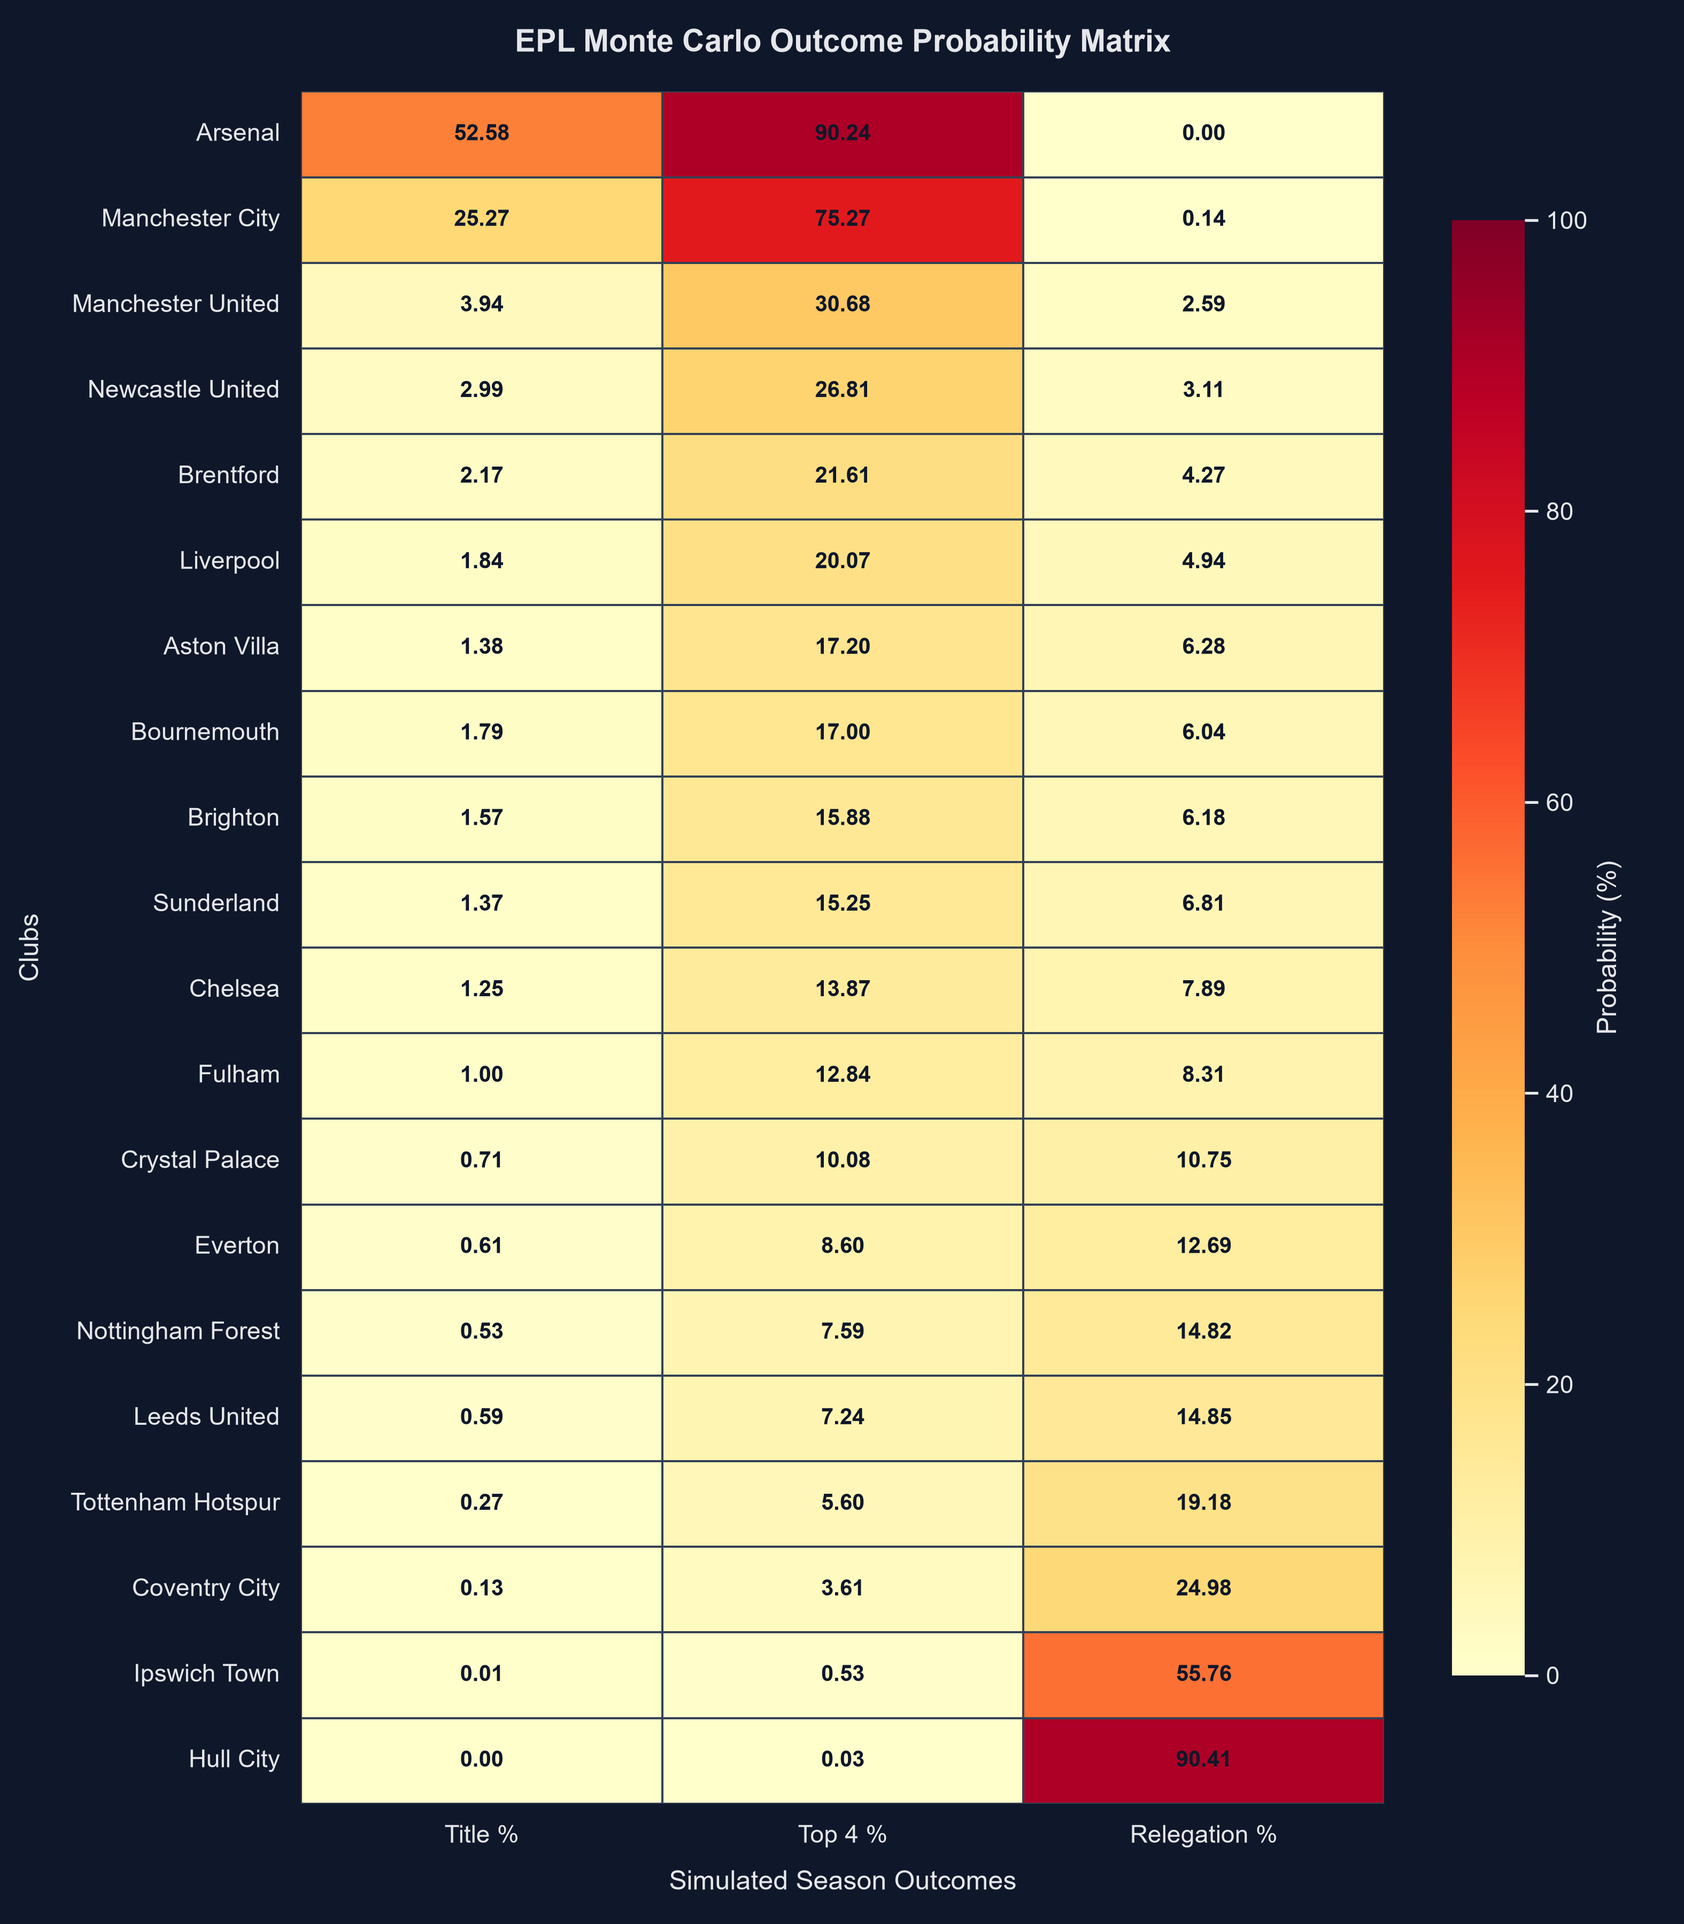
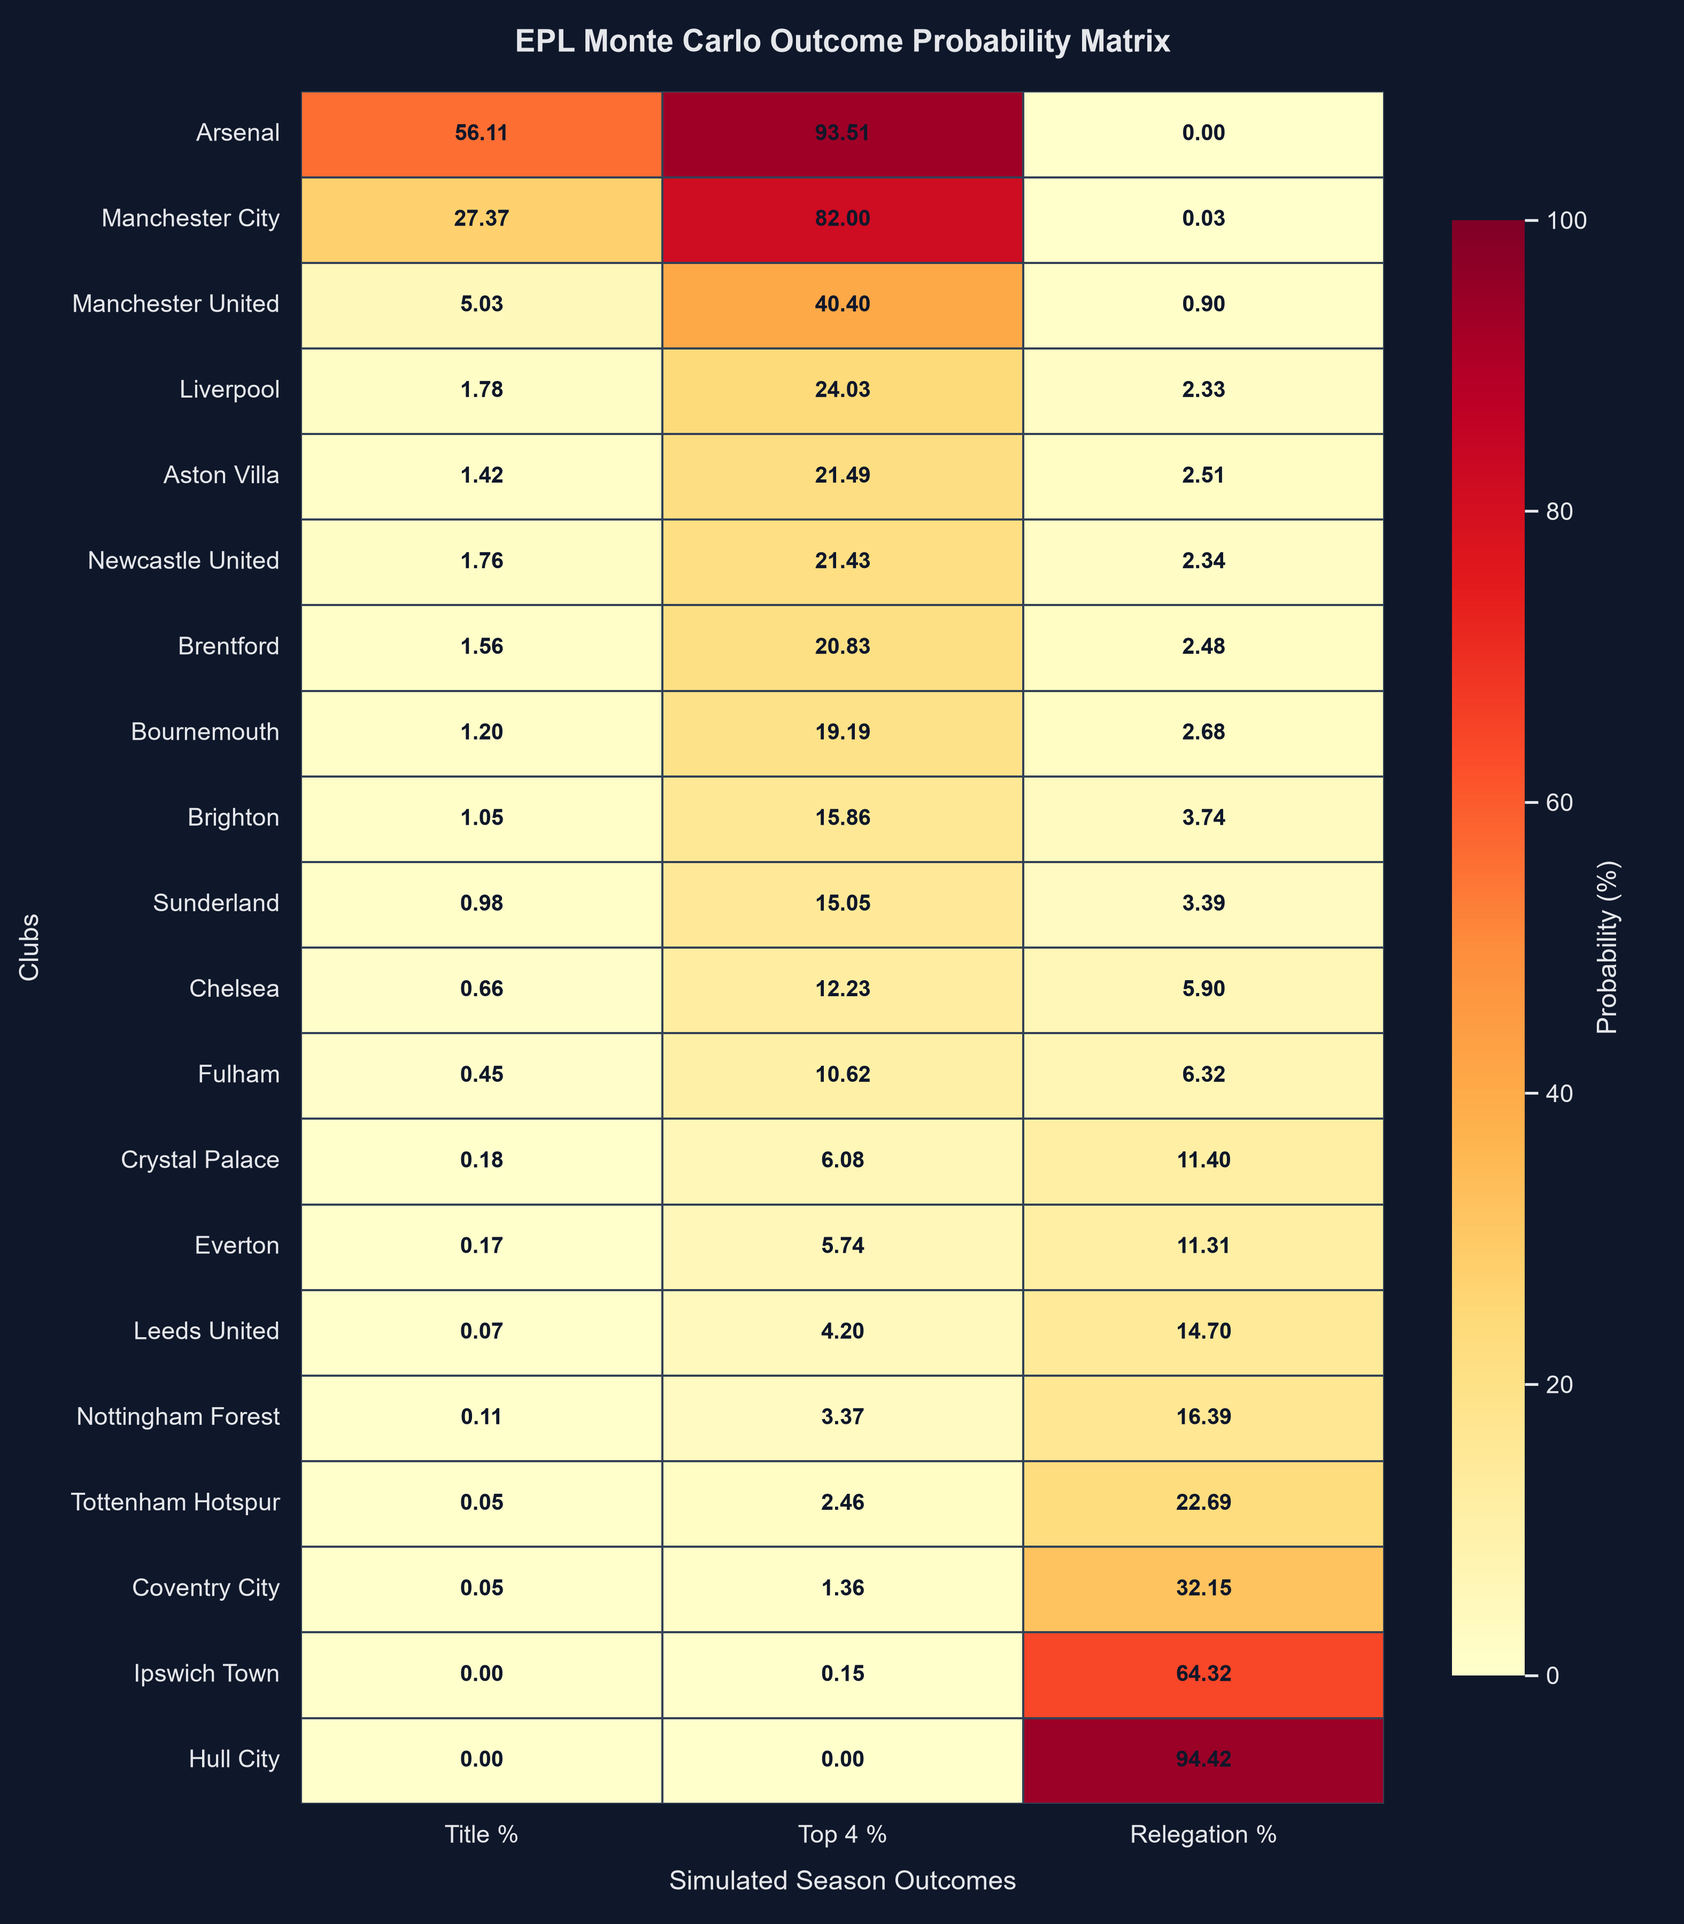
Document season-specific data structure

diff --git a/app.py b/app.py
@@ -1,4 +1,5 @@
 import json
+import sys
 from html import escape
 from pathlib import Path
 
@@ -6,7 +7,16 @@ import pandas as pd
 import plotly.graph_objects as go
 import streamlit as st
 
+SRC = Path(__file__).resolve().parent / "src"
+if str(SRC) not in sys.path:
+    sys.path.insert(0, str(SRC))
+
+from epl_sim.models import TeamRating
+from epl_sim.simulator import round_robin_fixtures
+from fdi_engine import calculate_fixture_difficulty
+from pipeline_initializer import initialize_pre_season_standings
 from scripts.generate_visuals import build_heatmap
+from src.ticker_matrix import generate_html_full_38_ticker
 
 # ==========================================
 # 1. PAGE CONFIGURATION & DARK THEME HOOK
@@ -64,69 +74,67 @@ HEATMAP_PATH = ROOT / "output_plots" / "epl_probability_heatmap.png"
 
 
 def render_dashboard_table(df: pd.DataFrame, column_config: dict) -> None:
-    """Render a native table, with an HTML fallback when PyArrow is blocked."""
-    try:
-        st.dataframe(
-            df,
-            column_config=column_config,
-            use_container_width=True,
-            hide_index=True,
-            height=800,
-        )
-    except (ImportError, OSError) as error:
-        error_text = str(error).lower()
-        if "pyarrow" not in error_text and "dll" not in error_text:
-            raise
+    """Render a dashboard table as HTML without loading Streamlit's native table stack."""
+    bar_colors = {
+        "Title_Pct": "#58a6ff",
+        "Relegation_Pct": "#ff7b72",
+        "FDI_Remaining": "#ff7b72",
+        "Risk %": "#ff4d4d",
+    }
+    header_labels = {
+        "Team": "Club Name",
+        "xPts": "xPts",
+        "Title_Pct": "Title Probability",
+        "Relegation_Pct": "Relegation Risk",
+        "FDI_Remaining": "FDI Score",
+        "FDI_Tier": "Schedule Status",
+        "Risk %": "Risk %",
+    }
+    headers = "".join(
+        f"<th>{escape(header_labels.get(column, str(column)))}</th>"
+        for column in df.columns
+    )
+    rows = []
+    for _, row in df.iterrows():
+        cells = []
+        for column, value in row.items():
+            if column == "FDI_Remaining":
+                score = max(1.0, min(5.0, float(value)))
+                percentage = ((score - 1.0) / 4.0) * 100.0
+                cells.append(
+                    "<td><div class='metric-cell'>"
+                    f"<span>{score:.2f}</span>"
+                    f"<span class='metric-bar'><span style='width:{percentage:.1f}%;background:{bar_colors[column]};'></span></span>"
+                    "</div></td>"
+                )
+            elif column in bar_colors:
+                percentage = max(0.0, min(100.0, float(value)))
+                cells.append(
+                    "<td><div class='metric-cell'>"
+                    f"<span>{percentage:.1f}%</span>"
+                    f"<span class='metric-bar'><span style='width:{percentage:.1f}%;background:{bar_colors[column]};'></span></span>"
+                    "</div></td>"
+                )
+            elif column == "xPts":
+                cells.append(f"<td>{float(value):.2f}</td>")
+            else:
+                cells.append(f"<td>{escape(str(value))}</td>")
+        rows.append(f"<tr>{''.join(cells)}</tr>")
 
-        st.caption("Native Streamlit tables are unavailable because Windows blocked PyArrow; showing a compatible table.")
-        bar_colors = {
-            "Title_Pct": "#58a6ff",
-            "Relegation_Pct": "#ff7b72",
-            "Risk %": "#ff4d4d",
-        }
-        header_labels = {
-            "Team": "Club Name",
-            "xPts": "xPts",
-            "Title_Pct": "Title Probability",
-            "Relegation_Pct": "Relegation Risk",
-            "Risk %": "Risk %",
-        }
-        headers = "".join(
-            f"<th>{escape(header_labels.get(column, str(column)))}</th>"
-            for column in df.columns
-        )
-        rows = []
-        for _, row in df.iterrows():
-            cells = []
-            for column, value in row.items():
-                if column in bar_colors:
-                    percentage = max(0.0, min(100.0, float(value)))
-                    cells.append(
-                        "<td><div class='metric-cell'>"
-                        f"<span>{percentage:.1f}%</span>"
-                        f"<span class='metric-bar'><span style='width:{percentage:.1f}%;background:{bar_colors[column]};'></span></span>"
-                        "</div></td>"
-                    )
-                elif column == "xPts":
-                    cells.append(f"<td>{float(value):.2f}</td>")
-                else:
-                    cells.append(f"<td>{escape(str(value))}</td>")
-            rows.append(f"<tr>{''.join(cells)}</tr>")
-
-        table_html = (
-            "<style>"
-            ".dashboard-table-wrap{width:100%;max-width:100%;max-height:800px;overflow:auto;}"
-            ".dashboard-table{width:100%;min-width:560px;border-collapse:collapse;color:#c9d1d9;}"
-            ".dashboard-table th,.dashboard-table td{padding:8px 10px;text-align:left;border-bottom:1px solid #30363d;}"
-            ".dashboard-table th{color:#8b949e;font-weight:600;}"
-            ".metric-cell{display:flex;align-items:center;gap:8px;min-width:110px;}"
-            ".metric-bar{display:inline-block;width:64px;height:6px;background:#30363d;border-radius:4px;overflow:hidden;}"
-            ".metric-bar span{display:block;height:100%;border-radius:4px;}"
-            "</style>"
-            f"<div class='dashboard-table-wrap'><table class='dashboard-table'><thead><tr>{headers}</tr></thead>"
-            f"<tbody>{''.join(rows)}</tbody></table></div>"
-        )
-        st.markdown(table_html, unsafe_allow_html=True)
+    table_html = (
+        "<style>"
+        ".dashboard-table-wrap{width:100%;max-width:100%;max-height:800px;overflow:auto;}"
+        ".dashboard-table{width:100%;min-width:560px;border-collapse:collapse;color:#c9d1d9;}"
+        ".dashboard-table th,.dashboard-table td{padding:8px 10px;text-align:left;border-bottom:1px solid #30363d;}"
+        ".dashboard-table th{color:#8b949e;font-weight:600;}"
+        ".metric-cell{display:flex;align-items:center;gap:8px;min-width:110px;}"
+        ".metric-bar{display:inline-block;width:64px;height:6px;background:#30363d;border-radius:4px;overflow:hidden;}"
+        ".metric-bar span{display:block;height:100%;border-radius:4px;}"
+        "</style>"
+        f"<div class='dashboard-table-wrap'><table class='dashboard-table'><thead><tr>{headers}</tr></thead>"
+        f"<tbody>{''.join(rows)}</tbody></table></div>"
+    )
+    st.markdown(table_html, unsafe_allow_html=True)
 
 
 def load_dashboard_data(path: Path) -> pd.DataFrame:
@@ -196,6 +204,30 @@ if not summary_source.exists():
 
 summary_source_label = summary_source.relative_to(ROOT).as_posix()
 df_summary = load_dashboard_data(summary_source)
+fdi_standings = initialize_pre_season_standings()
+if set(fdi_standings["Team"]) != set(df_summary["Team"]):
+    fdi_standings = df_summary[["Team", "xPts"]].copy()
+fdi_teams = [
+    TeamRating(name=team, attack=0.0, defense=0.0)
+    for team in fdi_standings["Team"]
+]
+fdi_fixtures = round_robin_fixtures(fdi_teams)
+_, df_fdi = calculate_fixture_difficulty(fdi_standings, fdi_fixtures)
+master_fixtures = pd.DataFrame(
+    [
+        {"Gameweek": (index // 10) + 1, "HomeTeam": home, "AwayTeam": away}
+        for index, (home, away) in enumerate(fdi_fixtures)
+    ]
+)
+try:
+    played_results = pd.read_csv(
+        ROOT / "data" / "epl_match_results.csv",
+        usecols=lambda column: column in {"HomeTeam", "AwayTeam"},
+    )
+except pd.errors.EmptyDataError:
+    played_results = pd.DataFrame(columns=["HomeTeam", "AwayTeam"])
+if not {"HomeTeam", "AwayTeam"}.issubset(played_results.columns):
+    played_results = pd.DataFrame(columns=["HomeTeam", "AwayTeam"])
 HEATMAP_PATH.parent.mkdir(parents=True, exist_ok=True)
 heatmap_df = df_summary.copy()
 for column in ["Title_Pct", "Top4_Pct", "Relegation_Pct"]:
@@ -281,11 +313,21 @@ with tab1:
         }
     )
 
+    st.markdown("---")
+    st.markdown(
+        "<h3 style='color:#f0f6fc; margin-bottom:15px;'>EPL Full 38-Gameweek Season Ticker Matrix</h3>",
+        unsafe_allow_html=True,
+    )
+    full_season_ticker_html = generate_html_full_38_ticker(
+        df_summary, master_fixtures, played_results
+    )
+    st.html(full_season_ticker_html)
+
 with tab2:
     st.markdown("<h3 style='color:#f0f6fc; margin-bottom:15px;'>Monte Carlo Heat Map</h3>", unsafe_allow_html=True)
 
     if HEATMAP_PATH.exists():
-        st.image(str(HEATMAP_PATH), use_container_width=True)
+        st.image(str(HEATMAP_PATH), width="stretch")
         st.caption("Probability matrix generated from the Monte Carlo season summary.")
     else:
         st.warning("Heat map image not found in `output_plots/`. Showing an in-app fallback chart instead.")

diff --git a/src/epl_sim/simulator.py b/src/epl_sim/simulator.py
@@ -7,8 +7,12 @@ from dataclasses import dataclass, asdict
 from pathlib import Path
 from typing import Iterable
 
+import pandas as pd
+
 from .models import SeasonResult, TableRow, TeamRating
 from .ratings import load_team_ratings
+from fdi_engine import calculate_fixture_difficulty, fdi_goal_modifier
+from pipeline_initializer import initialize_pre_season_standings
 
 
 @dataclass(frozen=True)
@@ -234,6 +238,29 @@ def simulate_match_with_fatigue(
     return poisson_sample(rng, home_xg), poisson_sample(rng, away_xg)
 
 
+def simulate_match_with_fatigue_and_fdi(
+    rng: random.Random,
+    home: TeamRating,
+    away: TeamRating,
+    home_fatigue_mod: float,
+    away_fatigue_mod: float,
+    team_difficulty: dict[str, float],
+) -> tuple[int, int]:
+    """Apply fatigue and fixture difficulty before sampling match goals."""
+    home_xg, away_xg = fatigue_adjusted_expected_goals(
+        home, away, home_fatigue_mod, away_fatigue_mod
+    )
+
+    # A stronger opponent reduces attacking output; a weaker opponent increases it.
+    home_xg *= fdi_goal_modifier(team_difficulty.get(away.name, 3.0))
+    away_xg *= fdi_goal_modifier(team_difficulty.get(home.name, 3.0))
+
+    return (
+        poisson_sample(rng, max(0.1, home_xg)),
+        poisson_sample(rng, max(0.1, away_xg)),
+    )
+
+
 def empty_table(teams: Iterable[TeamRating]) -> dict[str, TableRow]:
     return {team.name: TableRow(team=team.name) for team in teams}
 
@@ -278,14 +305,36 @@ def simulate_season_with_fatigue(
     fatigue_config = fatigue_config or FatigueConfig()
     energy = {team.name: 100 for team in teams}
 
+    # Calculate the FDI map once before the simulation loop begins.
+    fdi_standings = initialize_pre_season_standings()
+    team_names = set(team_map)
+    if set(fdi_standings["Team"]) != team_names:
+        # Keep tests or custom leagues working when they do not use the EPL teams.
+        fdi_standings = pd.DataFrame(
+            {
+                "Team": [team.name for team in teams],
+                "xPts": [0.0 for _ in teams],
+            }
+        )
+
+    team_difficulty, _ = calculate_fixture_difficulty(
+        fdi_standings,
+        fixtures,
+    )
+
     for home_name, away_name in fixtures:
         home = team_map[home_name]
         away = team_map[away_name]
         home_fatigue_mod, away_fatigue_mod = apply_fatigue(
             rng, energy, home_name, away_name, fatigue_config
         )
-        hg, ag = simulate_match_with_fatigue(
-            rng, home, away, home_fatigue_mod, away_fatigue_mod
+        hg, ag = simulate_match_with_fatigue_and_fdi(
+            rng,
+            home,
+            away,
+            home_fatigue_mod,
+            away_fatigue_mod,
+            team_difficulty,
         )
         record_result(table, home_name, away_name, hg, ag)
         energy[home_name] = min(100, energy[home_name] + fatigue_config.recovery)

diff --git a/README.md b/README.md
@@ -69,17 +69,32 @@ The model demonstrates an elite tracking profile for title contenders due to our
 ```text
 epl-predictive-analytics/
 ├── .github/workflows/
-│   └── pipeline_sync.yml        # GitHub Actions Cron Job Automation Workflow
+│   └── pipeline_sync.yml              # GitHub Actions Cron Job Automation Workflow
 ├── data/
-│   ├── all_simulated_universes_raw.csv  # 10,000 Run Simulation Log
-│   └── season_summary.json              # Post-Processed Aggregated xPts Data
+│   ├── final_archive_2526/            # Backtesting Data Sandbox
+│   │   ├── epl_2526_fixtures.csv      # Full 25/26 schedule mapping
+│   │   ├── epl_2526_results.csv       # Completed 25/26 historical results
+│   │   ├── epl_fixtures.csv           # Generic engine fixture path
+│   │   ├── epl_results.csv             # Generic engine results path
+│   │   └── pre_season_priors.csv       # Historical seed values
+│   ├── active_season_2627/             # Live Dashboard Production Data
+│   │   ├── epl_2627_fixtures.csv      # Live upcoming schedule matrix
+│   │   ├── epl_2627_results.csv       # Live updating results
+│   │   ├── epl_fixtures.csv           # Generic engine fixture path
+│   │   ├── epl_results.csv             # Generic engine results path
+│   │   └── pre_season_priors.csv       # 25/26 points-based seed values
+│   ├── all_simulated_universes_raw.csv # 10,000-run simulation log
+│   └── season_summary.json              # Post-processed aggregated xPts data
 ├── src/
-│   ├── ingestion.py             # BeautifulSoup Scraper & Promoted Team Deflator
-│   ├── ticker_matrix.py         # Full 38-Gameweek Horizontal FDR HTML Ticker
-│   ├── backtest.py              # RMSE Validation Framework Script
-│   └── app.py                   # Streamlit Frontend Dashboard
-├── requirements.txt             # Project Dependency Manifest
-└── README.md                    # Technical Documentation
+│   ├── epl_sim/                       # Core simulation package
+│   ├── engine.py                      # Season-aware simulation entry point
+│   ├── fdi_engine.py                  # Fixture Difficulty Index calculations
+│   ├── ingestion.py                   # BeautifulSoup data ingestion entry point
+│   ├── ticker_matrix.py               # Full 38-gameweek FDR ticker
+│   └── backtest.py                    # RMSE validation framework
+├── app.py                             # Streamlit frontend dashboard
+├── requirements.txt                   # Project dependency manifest
+└── README.md                          # Technical documentation
 ```
 
 ## ⚙ Local Deployment & Execution
@@ -99,5 +114,4 @@ epl-predictive-analytics/
    ```bash
    streamlit run src/app.py
    ```
-
 
